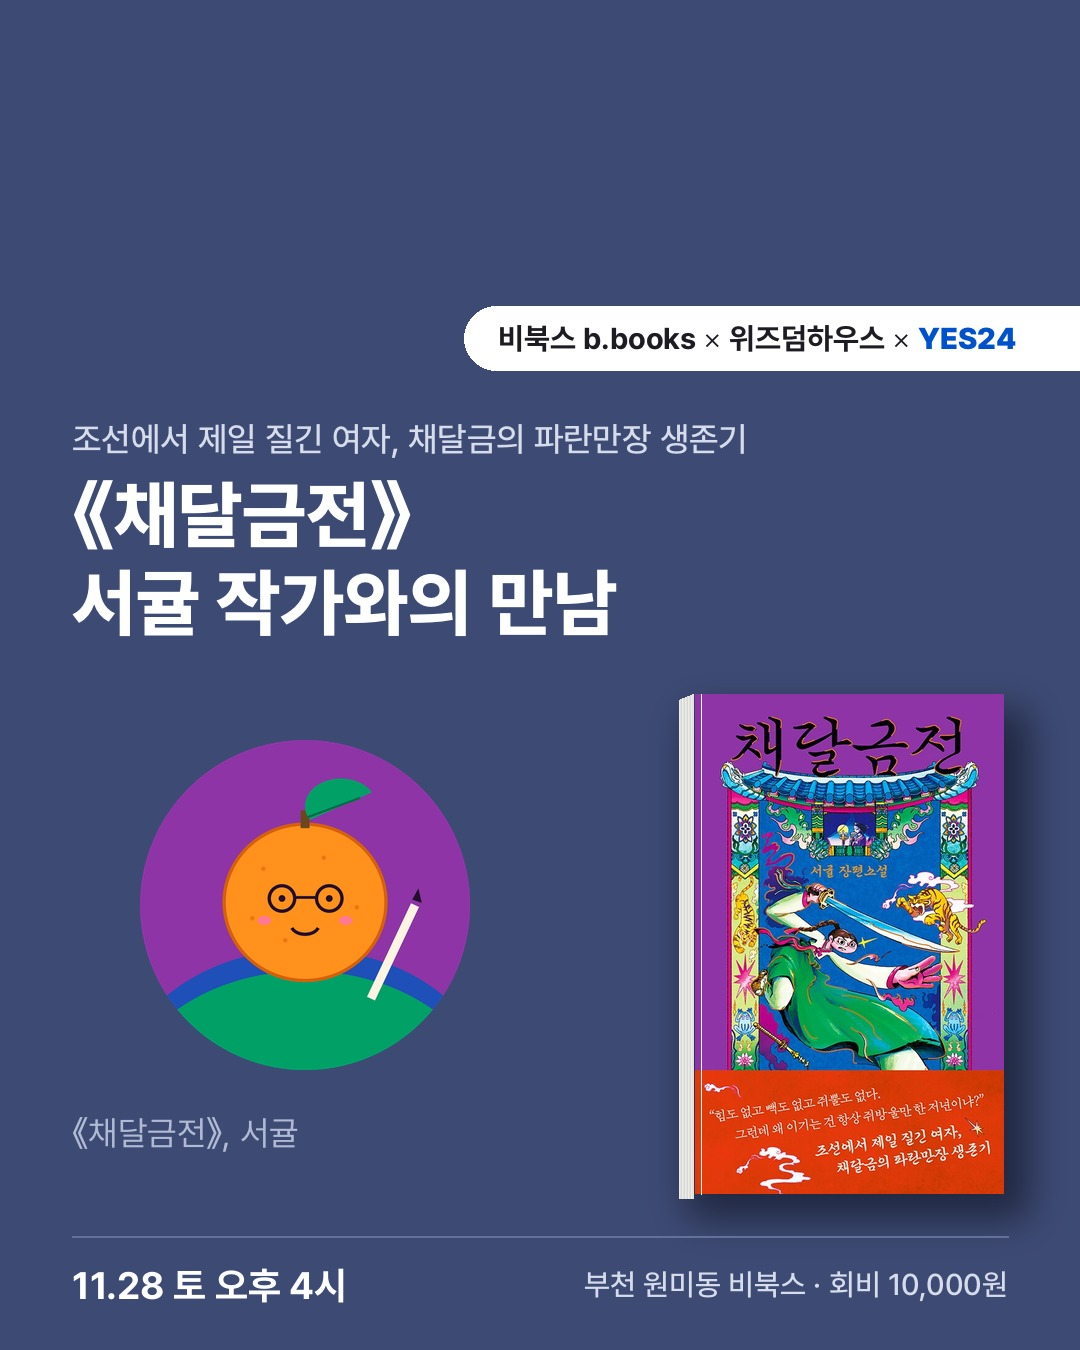
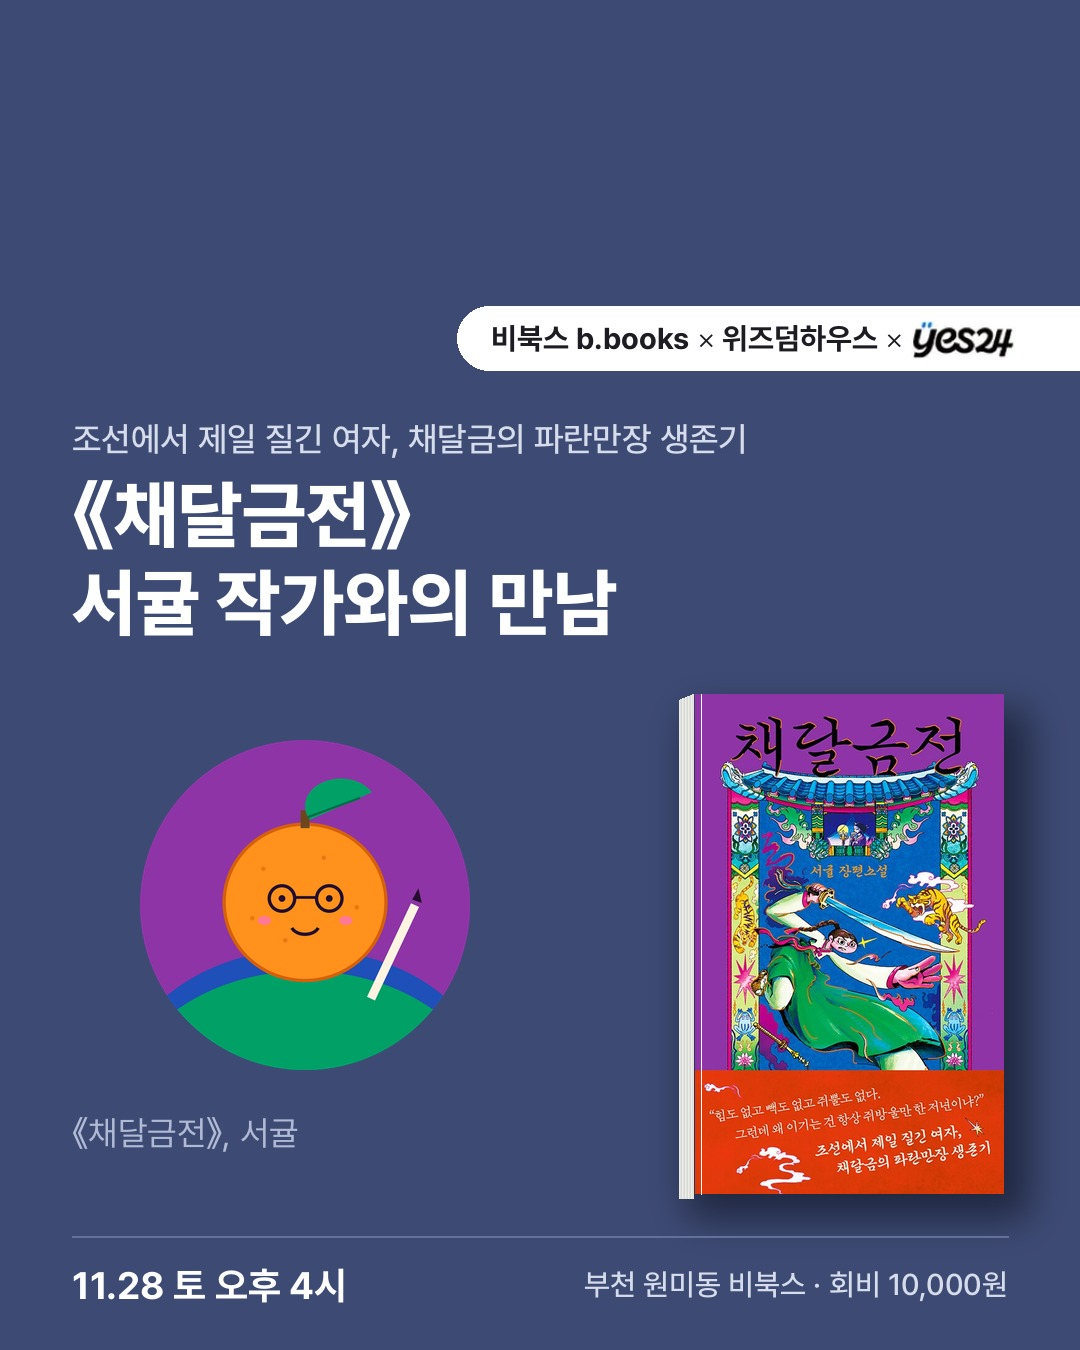
비톡스 서귤 포스터: 예스24 로고를 샘플 포스터 그대로 사용
Claude-Session: https://claude.ai/code/session_01USWUju46qzasK6k6DrB8L4

Changed region(s): [[0.4278, 0.2178, 0.9472, 0.28]]

diff --git a/_bmoim-v2-src/tools/make_collab_poster.py b/_bmoim-v2-src/tools/make_collab_poster.py
@@ -1,7 +1,7 @@
 #!/usr/bin/env python3
 """예스24 × 동네책방 콜라보 「작가와의 만남」 포스터 (1080×1350) — 2026-10 서귤 북토크에서 처음 씀
 
-  python3 make_collab_poster.py <책표지.jpg> <작가 원형 이미지.png> <저장할 파일.jpg> <Pretendard OTF 폴더>
+  python3 make_collab_poster.py <책표지.jpg> <작가 원형 이미지.png> <저장할 파일.jpg> <Pretendard OTF 폴더> images/brand/yes24_logo.png
 
 문구(부제·제목·콜라보 알약·일정)는 아래 코드에서 바꾼다. 폰트: npm pack pretendard@1.3.9 후 package/dist/public/static
 오른쪽 위 220×300(남은 자리 책갈피 자리)은 비워 두려고 알약을 그 아래에 둔다.
@@ -10,21 +10,25 @@ import sys
 from PIL import Image, ImageDraw, ImageFont, ImageFilter
 cover_p, avatar_p, out = sys.argv[1:4]
 FD = sys.argv[4]
+LOGO = sys.argv[5]  # 예스24 로고 (흰 바탕)
 F = lambda w, s: ImageFont.truetype(f'{FD}/Pretendard-{w}.otf', s)
 W, H = 1080, 1350
 BG, WHITE, SUB, INK = (61, 74, 116), (255, 255, 255), (214, 220, 236), (28, 28, 34)
 im = Image.new('RGB', (W, H), BG); d = ImageDraw.Draw(im)
 
-# 1) 오른쪽 위 콜라보 알약 (책갈피 자리 220×300 아래로)
+# 1) 오른쪽 위 콜라보 알약 (책갈피 자리 220×300 아래로) — 끝에 예스24 로고 이미지
 pill_y, pill_h = 306, 64
-parts = [('비북스 b.books', 'Bold'), (' × ', 'Light'), ('위즈덤하우스', 'Bold'), (' × ', 'Light'), ('YES24', 'Black')]
-tw = sum(d.textlength(t, font=F(w, 30)) for t, w in parts)
+logo = Image.open(LOGO).convert('RGB')
+lh = 40; logo = logo.resize((round(logo.width * lh / logo.height), lh), Image.LANCZOS)
+parts = [('비북스 b.books', 'Bold'), (' × ', 'Light'), ('위즈덤하우스', 'Bold'), (' × ', 'Light')]
+tw = sum(d.textlength(t, font=F(w, 30)) for t, w in parts) + logo.width
 x0 = W - tw - 64
 d.rounded_rectangle([x0 - 34, pill_y, W + 40, pill_y + pill_h], radius=pill_h // 2, fill=WHITE)
 x = x0
 for t, w in parts:
-    d.text((x, pill_y + pill_h // 2), t, font=F(w, 30), fill=INK if w != 'Black' else (0, 82, 204), anchor='lm')
+    d.text((x, pill_y + pill_h // 2), t, font=F(w, 30), fill=INK, anchor='lm')
     x += d.textlength(t, font=F(w, 30))
+im.paste(logo, (round(x), pill_y + (pill_h - lh) // 2 + 2))
 
 # 2) 부제 + 큰 제목
 L = 72
